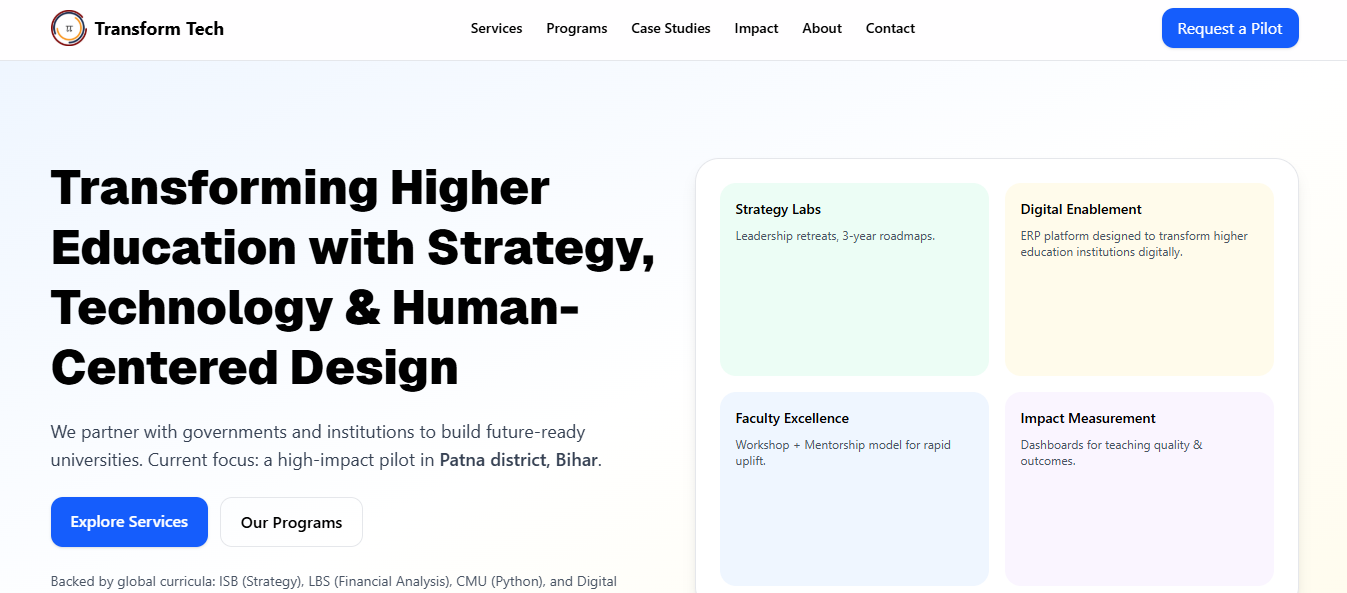
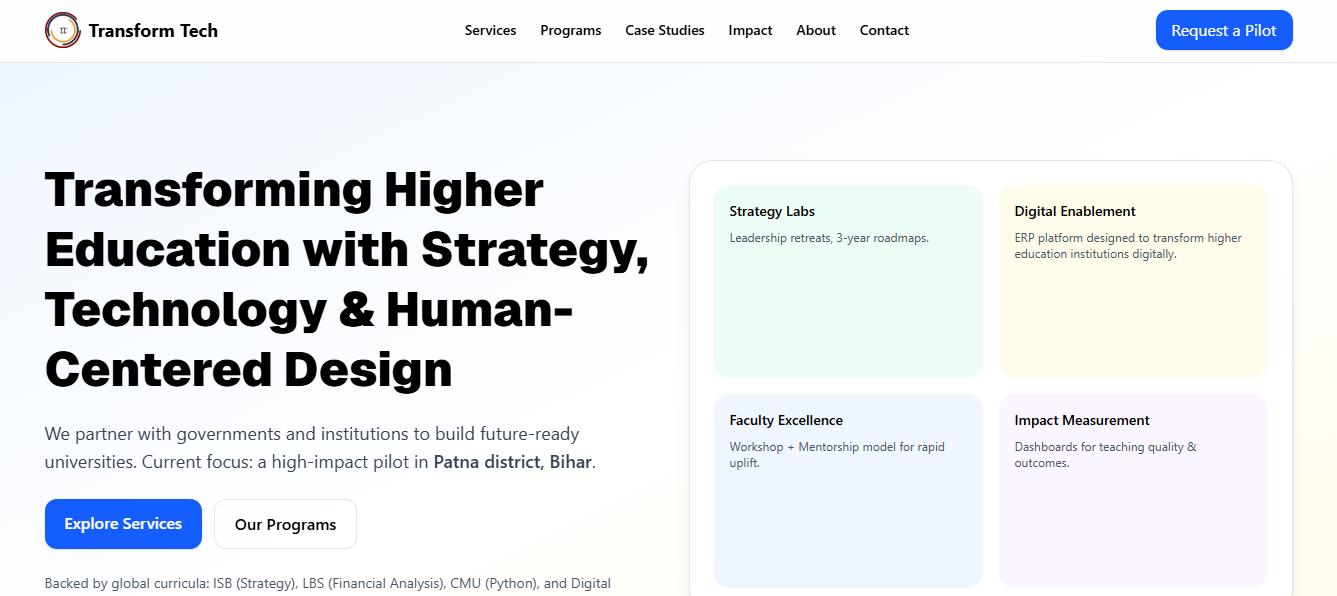
porjects added

diff --git a/components/projects.jsx b/components/projects.jsx
@@ -1,11 +1,13 @@
 "use client";
 // import { useState } from "react";
 // import MNCVEL from "@/public/images/projects/MNC Vel.jpg";
-import RVSYUVA from "@/public/images/projects/rvsyuvalogo.png";
+// import RVSYUVA from "@/public/images/projects/rvsyuvalogo.png";
+import RVSYUVA from "@/public/images/projects/rvs-yuva.png";
 // import MantelCorp from "@/public/images/projects/mantel corp.png";
 // import Rithans from "@/public/images/projects/rithans.png";
 import Dashboard from "@/public/images/projects/dashboard.png";
 import Transformtechin from "@/public/images/projects/transformtechin.png";
+import Transformtechai from "@/public/images/projects/transformtechai.png";
 // import Transformtechai from "@/public/images/projects/transformtechai.png";
 import Harish from "@/public/images/projects/harish.png";
 import Creative from "@/public/images/projects/creative.png";
@@ -55,30 +57,30 @@ export default function Projects() {
     {
       id: 6,
       title: "transformtech.in",
-      category: "Website",
+      category: "Business Website",
       image: Transformtechin,
       link: "https://transformtech.in/",
     },
-    // {
-    //   id: 7,
-    //   title: "transformtech.ai",
-    //   category: "Website",
-    //   image: Transformtechai,
-    //   link: "https://transformtech.ai/",
-    // },
+    {
+      id: 7,
+      title: "transformtech.ai",
+      category: "Business Website",
+      image: Transformtechai,
+      link: "https://transformtech.ai/",
+    },
     {
       id: 8,
+      title: "Creative Lin Graphics",
+      category: "Business Website",
+      image: Creative,
+      link: "https://creativelinegraphics.com/",
+    },
+    {
+      id: 9,
       title: "Harish Photography",
       category: "Portfolio Website",
       image: Harish,
       link: "https://harish-portfolio-jade.vercel.app/",
-    },
-    {
-      id: 9,
-      title: "Creative Designs",
-      category: "Business Website",
-      image: Creative,
-      link: "https://creativelinegraphics.com/",
     },
     // {
     //   id: 10,